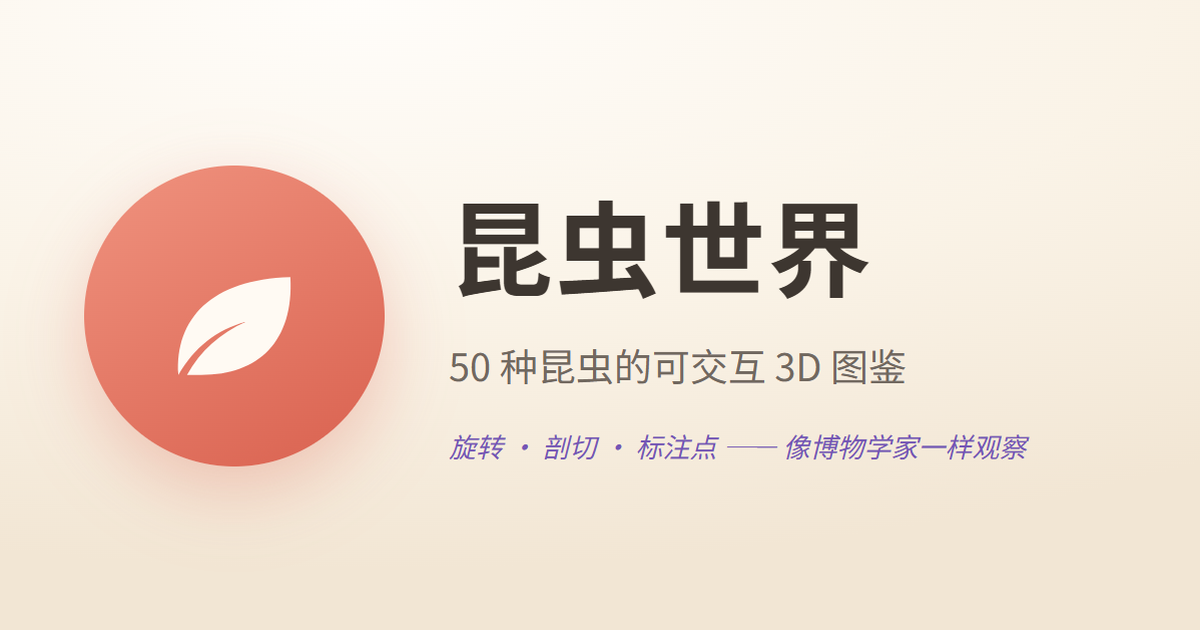
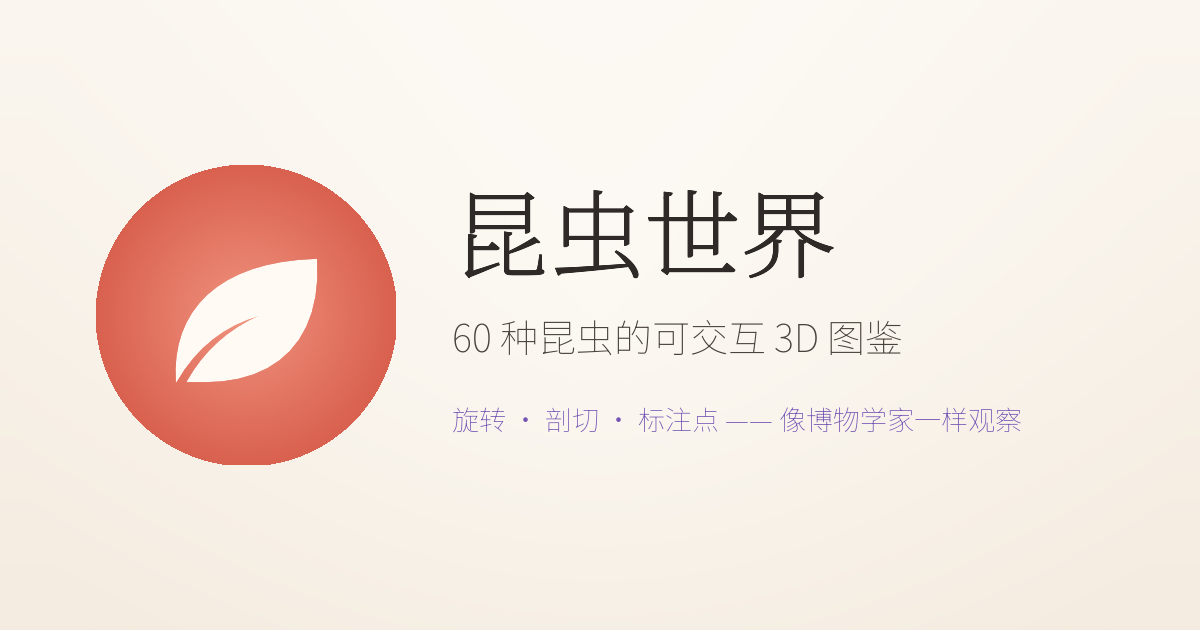
对比度补齐 + 分享卡重做（含一道能自证有效的机器闸门）
对比度（补算发现，非本轮改坏）：
- 浅色主题两处小字未过 AA：--brass 对页面底 4.43:1、--active-fg 对选中底
  3.46:1（顶栏药丸/分类菜单选中项/工具条激活态）。按 WCAG 实算取
  #876832 / #a94939，均为最坏背景下 ≥4.5:1
- DetailPanel 的 .eyebrow 用 --coral 当 10.5px 小字只有 2.63:1，是全站
  唯一一处真的文字违规 —— 改用 --brass，与 global.css 的 .eyebrow 同规
- 新增 src/styles/__tests__/contrast.test.ts：直接读 global.css 的 token
  按 WCAG 算，半透明背景先叠再比。⚠ 首版是个摆设：indexOf 找
  ":root[data-theme='light']" 命中的是文件头注释而非选择器，「浅色」那半
  断言量的全是暗色 token，对着已知坏值也全绿。已改为剥注释 + 连 { 匹配，
  并加一组元断言证明两套 token 真的解析成了两套；退回旧值实测能红

分享卡与图标：
- og.png 硬写着「50 种」一直挂到 60 种时代 —— 重做，并落成
  scripts/make-og.sh（数量会再变，不能再手工）
- 图标三件套改回珊瑚叶：浅色已重新成为默认，黄铜是暗色时代的身份
- 两个 IM 坑记在脚本头注释：SVG 渐变渲成黑块、WSL 无中文字体须借
  /mnt/c/Windows/Fonts 的 Noto Sans/Serif SC

Changed region(s): [[0.0617, 0.2413, 0.3392, 0.8143], [0.37, 0.5127, 0.8633, 0.754], [0.37, 0.3016, 0.74, 0.4825]]

diff --git a/src/styles/__tests__/contrast.test.ts b/src/styles/__tests__/contrast.test.ts
@@ -1,0 +1,157 @@
+/**
+ * 配色对比度闸门 —— 直接读 global.css 的 token 值算 WCAG 比值。
+ *
+ * 为什么要有这道机器闸门：这个项目在颜色上栽过两次，两次都是「凭眼睛定、
+ * 写句注释提醒自己」然后照样漂移（第 5 轮榆蓝叶甲压成近黑、第 6 轮铜绿丽
+ * 金龟原样重演）。界面色同理 —— 2026-08-09 补算才发现 v1 传下来的选中态
+ * 文字只有 3.46:1，一直没人发现，因为「看起来还行」。
+ *
+ * 所以断言的是数字不是印象。改 token 时若这里红了，先看是不是真的压线，
+ * 别顺手把期望值调低。
+ *
+ * 覆盖范围：两套主题里**小字**（<18px，AA 需 4.5:1）与**非文字指示物**
+ * （焦点环，AA 需 3:1）落在其真实背景上的最坏情况。半透明背景按实际叠加
+ * 算出实色再比 —— 直接拿 token 原值比会得出偏乐观的结论。
+ */
+import { describe, expect, it } from 'vitest'
+import { readFileSync } from 'node:fs'
+import { fileURLToPath } from 'node:url'
+
+/**
+ * ⚠ 先剥注释再解析，且选择器必须连着 `{` 一起匹配。
+ * 头注释里就写着 `:root[data-theme='light']` 这串字 —— 首版用 indexOf 找它，
+ * 命中的是注释而非选择器，于是「浅色主题」那一半断言量的全是暗色 token，
+ * 对着已知的坏值也一路绿灯。这道闸门差点自己就是个摆设。
+ */
+const css = readFileSync(fileURLToPath(new URL('../global.css', import.meta.url)), 'utf8').replace(
+  /\/\*[\s\S]*?\*\//g,
+  '',
+)
+
+const BLOCK: Record<'dark' | 'light', RegExp> = {
+  dark: /:root\s*\{([^}]*)\}/,
+  light: /:root\[data-theme='light'\]\s*\{([^}]*)\}/,
+}
+
+/** 取某个主题块里的 token 值 */
+function token(name: string, theme: 'dark' | 'light'): string {
+  const block = BLOCK[theme].exec(css)
+  if (!block) throw new Error(`${theme} 主题的 :root 块没解析到`)
+  const m = new RegExp(`--${name}:\\s*([^;]+);`).exec(block[1])
+  if (!m) throw new Error(`token --${name} 在 ${theme} 主题里找不到`)
+  return m[1].trim()
+}
+
+function rgb(hex: string): [number, number, number] {
+  const h = hex.replace('#', '')
+  return [0, 2, 4].map((i) => parseInt(h.slice(i, i + 2), 16)) as [number, number, number]
+}
+
+/** 8 位十六进制（#rrggbbaa）的 alpha 通道，无 alpha 段则为 1 */
+function alpha(hex: string): number {
+  const h = hex.replace('#', '')
+  return h.length === 8 ? parseInt(h.slice(6, 8), 16) / 255 : 1
+}
+
+/** 把半透明前景叠到实色底上，得到用户真正看到的那个颜色 */
+function flatten(fg: string, bg: string): string {
+  const a = alpha(fg)
+  const [fr, fg_, fb] = rgb(fg)
+  const [br, bg_, bb] = rgb(bg)
+  const mix = (f: number, b: number) => Math.round(a * f + (1 - a) * b)
+  return `#${[mix(fr, br), mix(fg_, bg_), mix(fb, bb)]
+    .map((v) => v.toString(16).padStart(2, '0'))
+    .join('')}`
+}
+
+function luminance(hex: string): number {
+  return rgb(hex)
+    .map((v) => v / 255)
+    .map((v) => (v <= 0.04045 ? v / 12.92 : ((v + 0.055) / 1.055) ** 2.4))
+    .reduce((acc, v, i) => acc + [0.2126, 0.7152, 0.0722][i] * v, 0)
+}
+
+function contrast(fg: string, bg: string): number {
+  const [a, b] = [luminance(fg), luminance(bg)]
+  return (Math.max(a, b) + 0.05) / (Math.min(a, b) + 0.05)
+}
+
+interface Case {
+  what: string
+  fg: string
+  /** 背景自下而上：第一个是实色底，其后逐层叠加（半透明层写 token 名） */
+  layers: string[]
+  min: number
+}
+
+function cases(theme: 'dark' | 'light'): Case[] {
+  const t = (n: string) => token(n, theme)
+  const canvas = t('canvas')
+  const paper = flatten(t('paper'), canvas)
+  return [
+    { what: '正文 --ink / 卡片面', fg: t('ink'), layers: [paper], min: 4.5 },
+    { what: '正文 --ink / 页面底', fg: t('ink'), layers: [canvas], min: 4.5 },
+    { what: '次级字 --muted / 卡片面', fg: t('muted'), layers: [paper], min: 4.5 },
+    { what: '次级字 --muted / 页面底', fg: t('muted'), layers: [canvas], min: 4.5 },
+    { what: '展签小字 --brass / 卡片面', fg: t('brass'), layers: [paper], min: 4.5 },
+    { what: '展签小字 --brass / 页面底', fg: t('brass'), layers: [canvas], min: 4.5 },
+    // 选中态：--active-bg 是半透明的，必须先叠到底色上再比
+    {
+      what: '选中字 --active-fg / 页面上的选中底',
+      fg: t('active-fg'),
+      layers: [canvas, t('active-bg')],
+      min: 4.5,
+    },
+    {
+      what: '选中字 --active-fg / 卡片上的选中底',
+      fg: t('active-fg'),
+      layers: [paper, t('active-bg')],
+      min: 4.5,
+    },
+    { what: '危险项 --danger / 卡片面', fg: t('danger'), layers: [paper], min: 4.5 },
+    /**
+     * 四色标注体系里只有 --lavender 当正文用（顶栏标语 15px、卡片小标题
+     * 9.5px），所以只有它按文字档 4.5:1 断言。
+     * coral / sage / amber 全部是**图标与色点**（.factIcon、.noteBullet、
+     * 生活史圆点、3D 热点圆点），旁边永远跟着说明文字、信息不靠颜色单独承载，
+     * WCAG 对这类装饰性冗余图形不设门槛 —— 首版在这里一律断 4.5:1 是量错了
+     * 对象，浅色主题的 v1 珊瑚 #eb7c6b 会「失败」，但它恰恰是用户点名要回来的
+     * 那个颜色。⚠ 若哪天把这三个色用作正文，必须回到这里补断言。
+     */
+    { what: '标注色 --lavender / 卡片面（唯一当正文用的）', fg: t('lavender'), layers: [paper], min: 4.5 },
+    // 焦点环是非文字指示物，AA 门槛 3:1（1.4.11），不是 4.5
+    { what: '焦点环 --focus / 页面底', fg: t('focus'), layers: [canvas], min: 3 },
+    { what: '焦点环 --focus / 卡片面', fg: t('focus'), layers: [paper], min: 3 },
+  ]
+}
+
+/**
+ * 元断言：先证明两套 token 真的解析成了两套。
+ * 少了这条，解析一旦塌成同一个块（首版就是），下面 30 条断言会变成
+ * 「把暗色量两遍」而全绿 —— 那才是最坏的情况：闸门在，但不设防。
+ */
+describe('主题块解析本身', () => {
+  it.each(['canvas', 'ink', 'active-fg', 'brass'])('--%s 在两套主题里取到不同的值', (name) => {
+    expect(token(name, 'dark')).not.toBe(token(name, 'light'))
+  })
+})
+
+describe.each(['dark', 'light'] as const)('%s 主题的对比度', (theme) => {
+  /**
+   * --disabled 有意不在列：WCAG 1.4.3 明确豁免禁用控件，它就该看着是灰的。
+   * --on-primary / --on-tone 落在动态色上，由各自组件保证，不在 token 层断言。
+   */
+  it.each(cases(theme))('$what ≥ $min:1', ({ fg, layers, min, what }) => {
+    // token 可能写成 var(--x) 的引用（如暗色 --active-fg: var(--brass-bright)）
+    const resolve = (v: string): string => {
+      const ref = /var\(--([\w-]+)\)/.exec(v)
+      return ref ? resolve(token(ref[1], theme)) : v
+    }
+    const bg = layers.map(resolve).reduce((acc, layer) => flatten(layer, acc))
+    const ratio = contrast(resolve(fg), bg)
+    expect(
+      Number(ratio.toFixed(2)),
+      `${what}：${resolve(fg)} 压在 ${bg} 上只有 ${ratio.toFixed(2)}:1，低于 ${min}:1`,
+    ).toBeGreaterThanOrEqual(min)
+  })
+})

diff --git a/src/styles/global.css b/src/styles/global.css
@@ -80,7 +80,10 @@
   --line: #755b462e;
   --line-strong: #755b4647;
 
-  --brass: #8a6a33;
+  /* 两个值都是按 WCAG 实算钉住的，别凭眼睛回调（2026-08-09 补算发现
+     v1 传下来的选中态只有 3.46:1）：--brass 压在页面底上 4.58:1，
+     --active-fg 压在 12% 珊瑚选中底上 4.54:1，均为最坏背景下的小字档。 */
+  --brass: #876832;
   --brass-bright: #a5824c;
 
   --coral: #eb7c6b;
@@ -98,7 +101,7 @@
   --field: #fffbf480;
   --tint: #755b4614;
   --active-bg: #eb7c6b1f;
-  --active-fg: #c25a49;
+  --active-fg: #a94939;
   --primary-a: #ef8674;
   --primary-b: #e26e5c;
   --on-primary: #fffaf5;

diff --git a/src/components/DetailPanel.module.css b/src/components/DetailPanel.module.css
@@ -9,7 +9,9 @@
   display: flex;
   align-items: center;
   gap: 6px;
-  color: var(--coral);
+  /* 展签一律 --brass（与 global.css 的 .eyebrow 同规）。原先用 --coral，
+     10.5px 小字在浅色主题下只有 2.63:1，是全站唯一一处真的文字违规。 */
+  color: var(--brass);
   font-size: 10.5px;
   font-weight: 500;
   letter-spacing: 0.16em;
